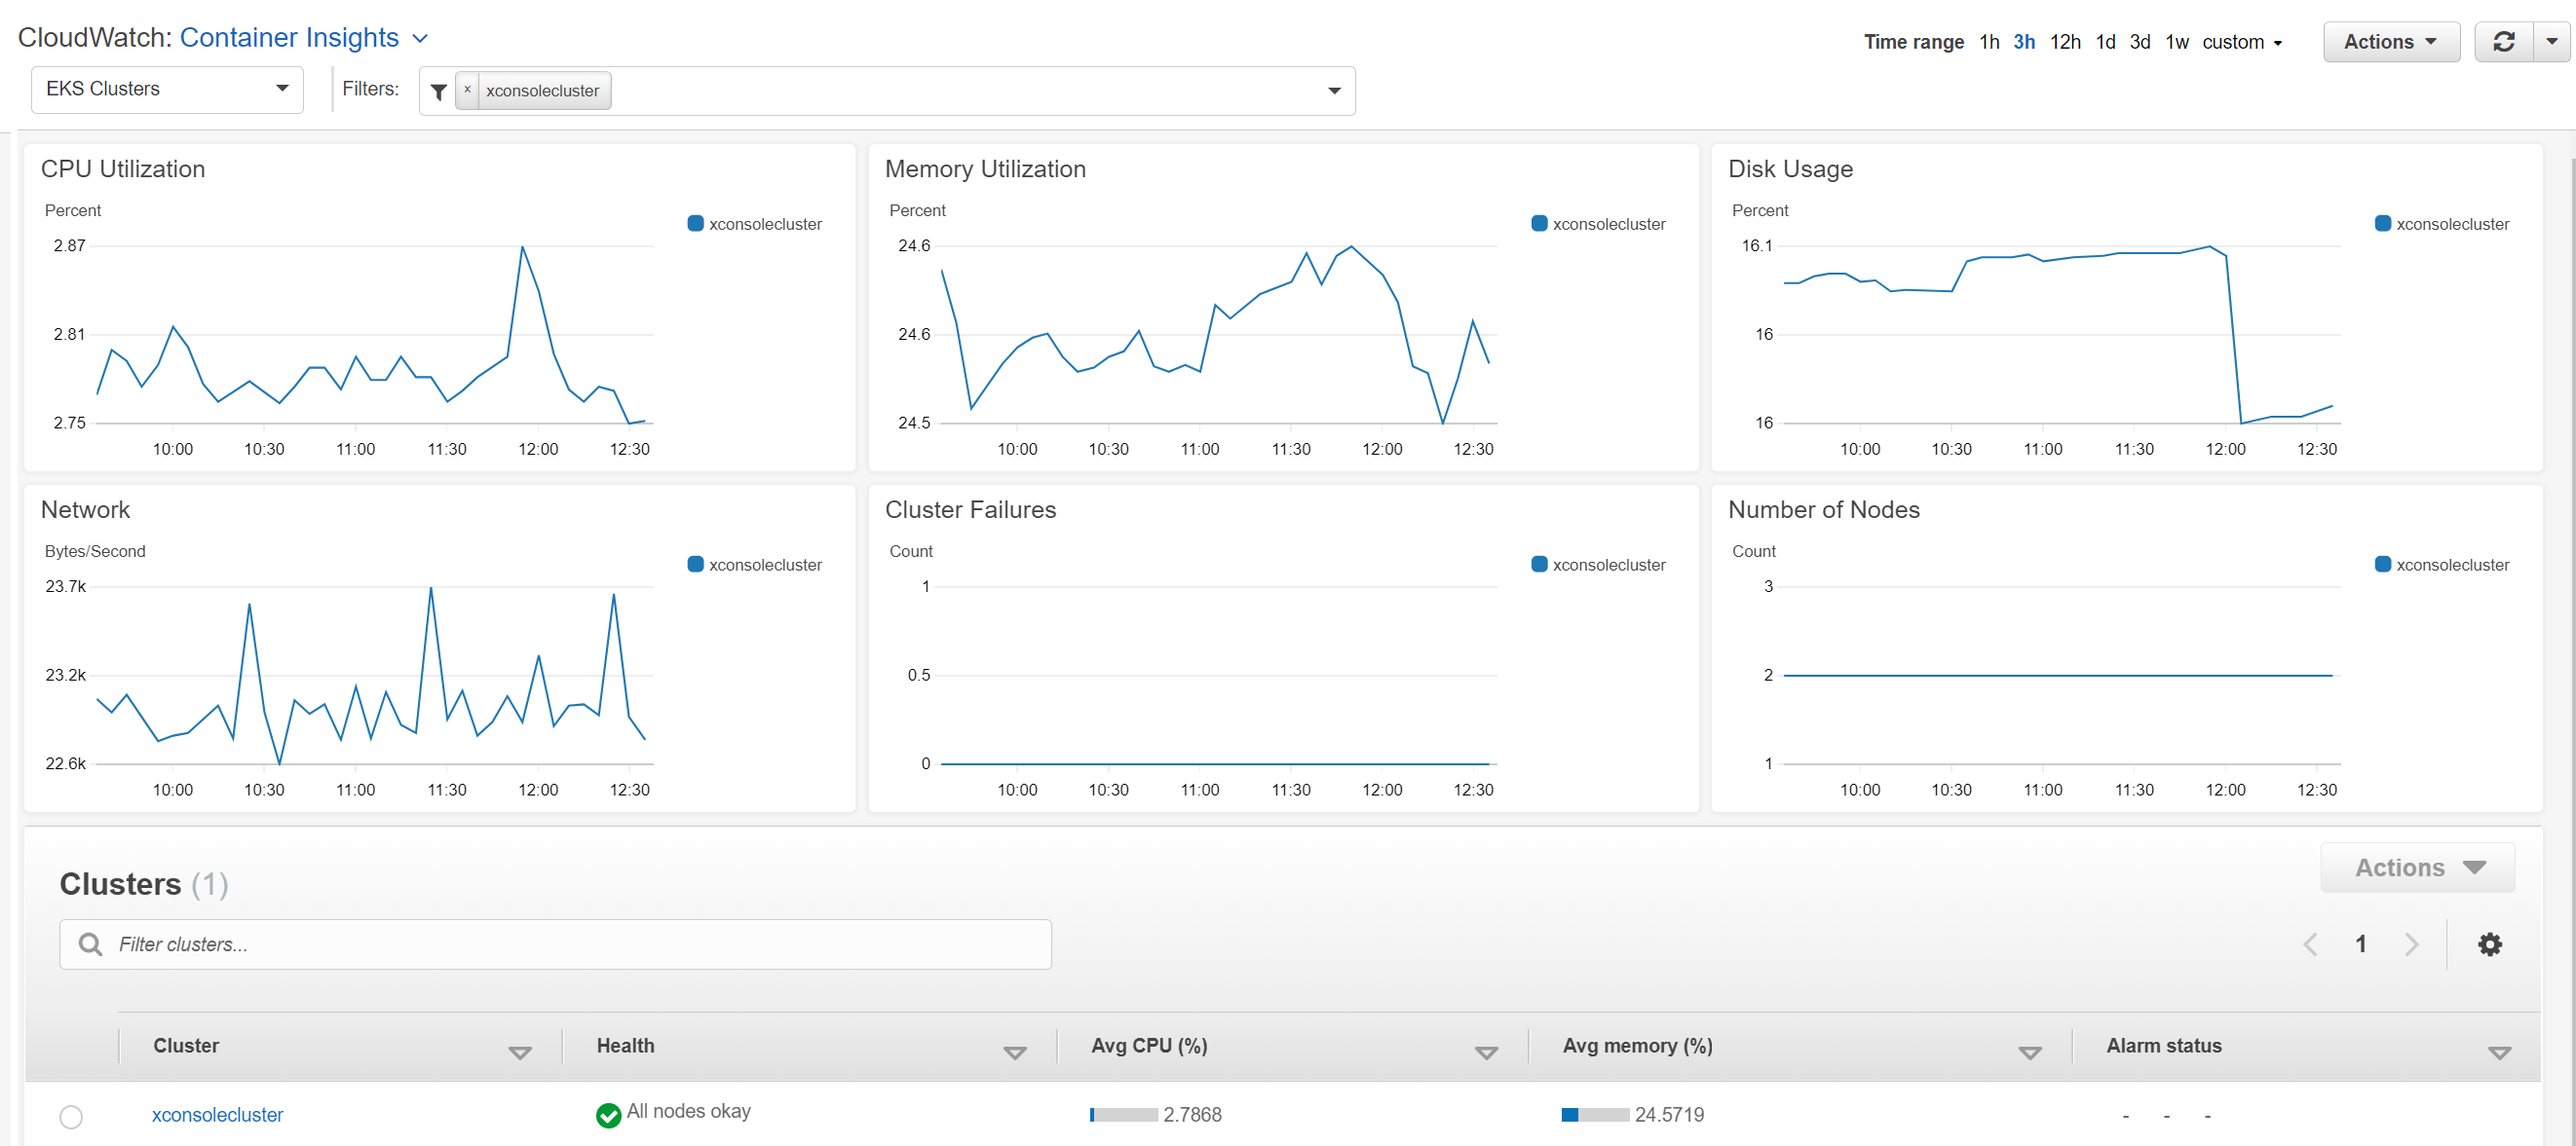
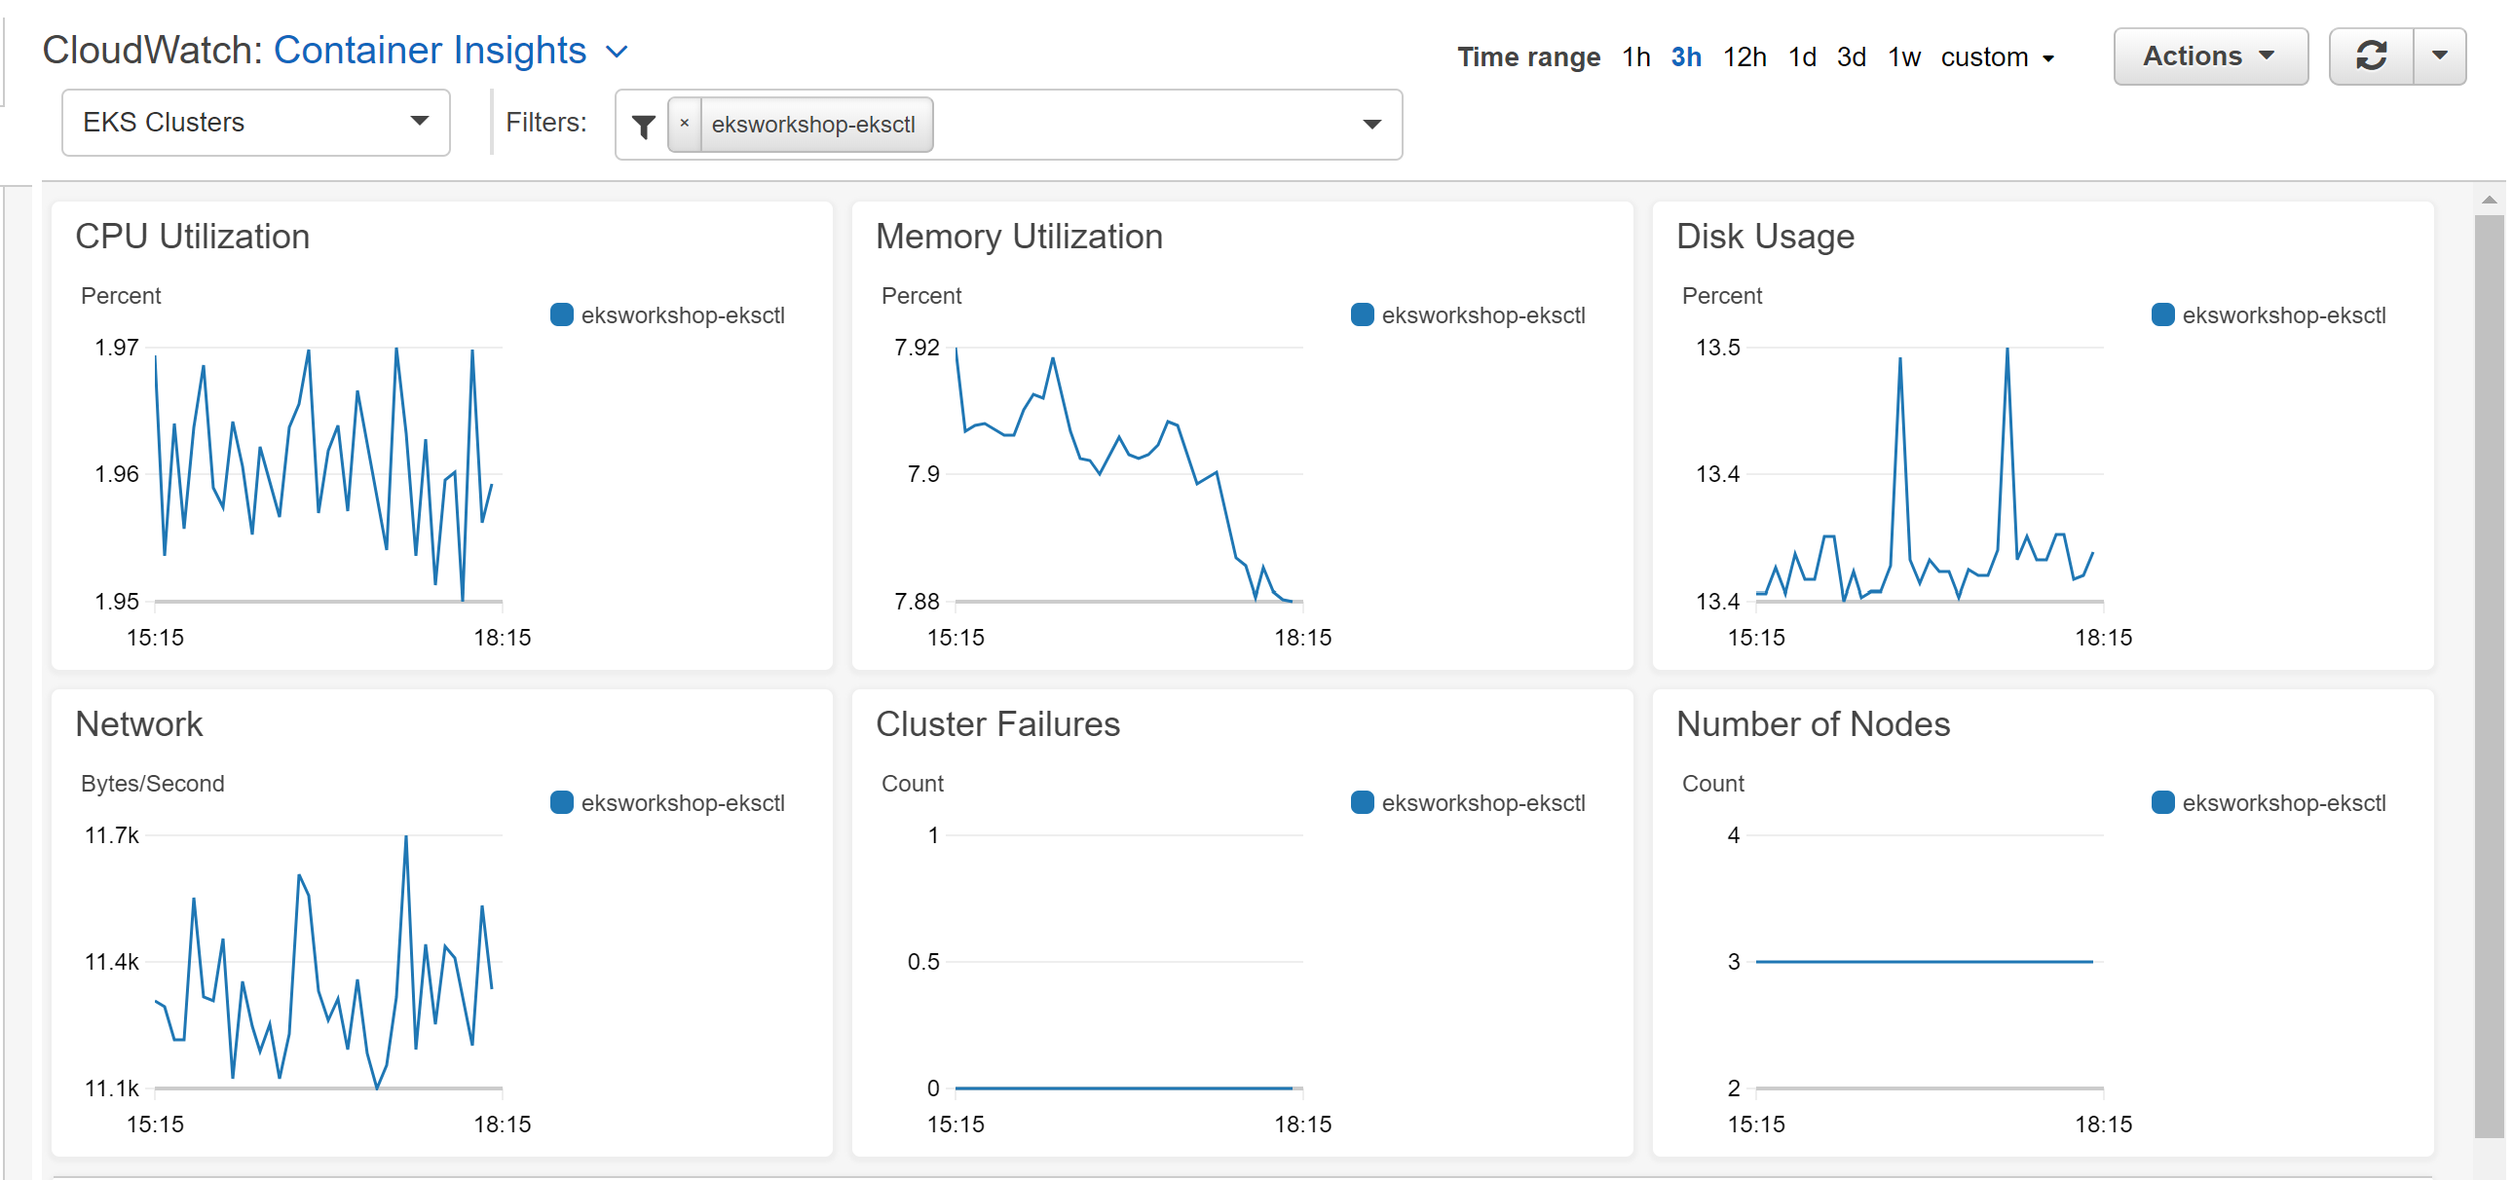
New edits

diff --git a/content/container_insights/explore.md b/content/container_insights/explore.md
@@ -3,12 +3,38 @@ title: "Explore Container Insights"
 chapter: false
 weight: 2
 ---
+#### Validate Installation
 
-* Once the setup steps are complete, logon to AWS console and navigate to AWS CloudWatch home page. Select *Container Insights* from the drop down on the home page as shown below
+* Once the installation is complete execute the following commands to ensure everything is setup correctly.
+
+    * Execute the following command
+
+        `kubectl get namespaces`
+
+        You should be able to see a new namespace called **amazon-cloudwatch** listed amongst others
+
+    * Now execute the following command
+
+        `kubectl get daemonsets -n amazon-cloudwatch`
+
+        You should be able to see two daemonsets called **cloudwatch-agent** and **fluentd-cloudwatch** listed.
+    * Finally, let's check if the Pods are in Running status. Execute the following command to find that out.
+
+        `kubectl get pods -n amazon-cloudwatch`
+    
+        You should see 3 instances of **cloudwatch-agent** and **fluentd-cloudwatch** pods running.    
+
+#### Verify that the logs are streaming into CloudWatch
+* Login to AWS console and navigate to [Amazon CloudWatch Logs](https://console.aws.amazon.com/cloudwatch/home#logs:)
+* Type **/aws/containerinsights/eksworkshop-eksctl** in the filter texbox and press enter. You should be able to see 4 Log Groups as shown below each one of them containing Application, Dataplane, Host and Performance Log Streams respectively.
+
+![Container Insights](/images/ContainerInsights6.png)
+
+* Navigate to AWS CloudWatch home page. Select **Container Insights** from the drop down on the home page as shown below
 
 ![Container Insights](/images/ContainerInsights1.png)
 
-* Ensure *EKS Clusters* is selected in the first dropdown and select the name of your EKS cluster in the second dropdown. You will be able to see several build-in charts showing various cluster level metrics such as CPU Utilization, Memory Usage, Disk Usage, Network and so on in the default dashboard as shown below
+* Ensure **EKS Clusters** is selected in the first dropdown and select the **eksworkshop-eksctl** cluster in the second dropdown. You will be able to see several build-in charts showing various cluster level metrics such as CPU Utilization, Memory Usage, Disk Usage, Network and so on in the default dashboard as shown below
 
 ![Container Insights](/images/ContainerInsights2.png)
 
@@ -16,6 +42,9 @@ weight: 2
 
 ![Container Insights](/images/ContainerInsights3.png)
 
-* You can also drill down into the cluster and see the metrics at the Pod level by simply selecting *EKS Pods* in the first drop down as shown below
+* You can also drill down into the cluster and see the metrics at the Pod level by simply selecting **EKS Pods** in the first drop down as shown below
 
 ![Container Insights](/images/ContainerInsights5.png)
+
+* Likewise, you can also see insights at the Node level as well. You just have to select **EKS Nodes** in the first drop down and select a particular node in the second drop down to see metrics specific to that node.
+

diff --git a/content/container_insights/setup.md b/content/container_insights/setup.md
@@ -9,6 +9,9 @@ There are 2 components that work together to collect Metrics, Logs data for Cont
 1. CloudWatch agent
 2. FluentD
 
+#### Demo App
+In this section we will be setting up Container Insights for the ECS Demo app that you created in the *Deploy the Example Microservices* section earlier. If you haven't done that yet, go ahead and deploy the application and come back here again to proceed with Container Insights.
+
 #### Prerequisites
 Before you proceed further make sure the prerequisites mentioned in this link are taken care of
 
@@ -19,7 +22,7 @@ Before you proceed further make sure the prerequisites mentioned in this link ar
 #### Option 1
 #### Quick start setup
 
-Follow the quickstart setup for Container Insights on EKS easily in one easy step. This is the fastest way to setup CloudWatch Container Insights for your cluster. If you want to take a step by step approach to understand clearly, skip this step and go to steps under Option 2.
+Follow the quickstart setup for Container Insights on EKS easily in one easy step. This is the fastest way to setup CloudWatch Container Insights for your cluster. If you want to take a step by step approach to understand clearly, skip this step and go to instructions under Option 2.
 
 * https://docs.aws.amazon.com/en_pv/AmazonCloudWatch/latest/monitoring/Container-Insights-setup-EKS-quickstart.html
 
@@ -45,3 +48,4 @@ Follow these instructions to setup FluentD as a DaemonSet in your EKS cluster
 
 * https://docs.aws.amazon.com/en_pv/AmazonCloudWatch/latest/monitoring/Container-Insights-setup-logs.html 
 
+{{% children showhidden="false" %}}

diff --git a/content/container_insights/setupalarm.md b/content/container_insights/setupalarm.md
@@ -1,0 +1,18 @@
+---
+title: "Setup CloudWatch Alarm"
+chapter: false
+weight: 3
+---
+#### Setup CloudWatch Alarm
+
+In this section, we will setup a CloudWatch alarm based on CPU Utilizaiton metric on a specific EKS worker node.
+
+* Select any particular node you want and select **View in metrics** from the **CPU Utilization** widget as shown below
+
+![Container Insights](/images/ContainerInsights7.png)
+
+* Click on the bell icon (circled red) to create an alarm
+
+![Container Insights](/images/ContainerInsights8.png)
+
+* 
